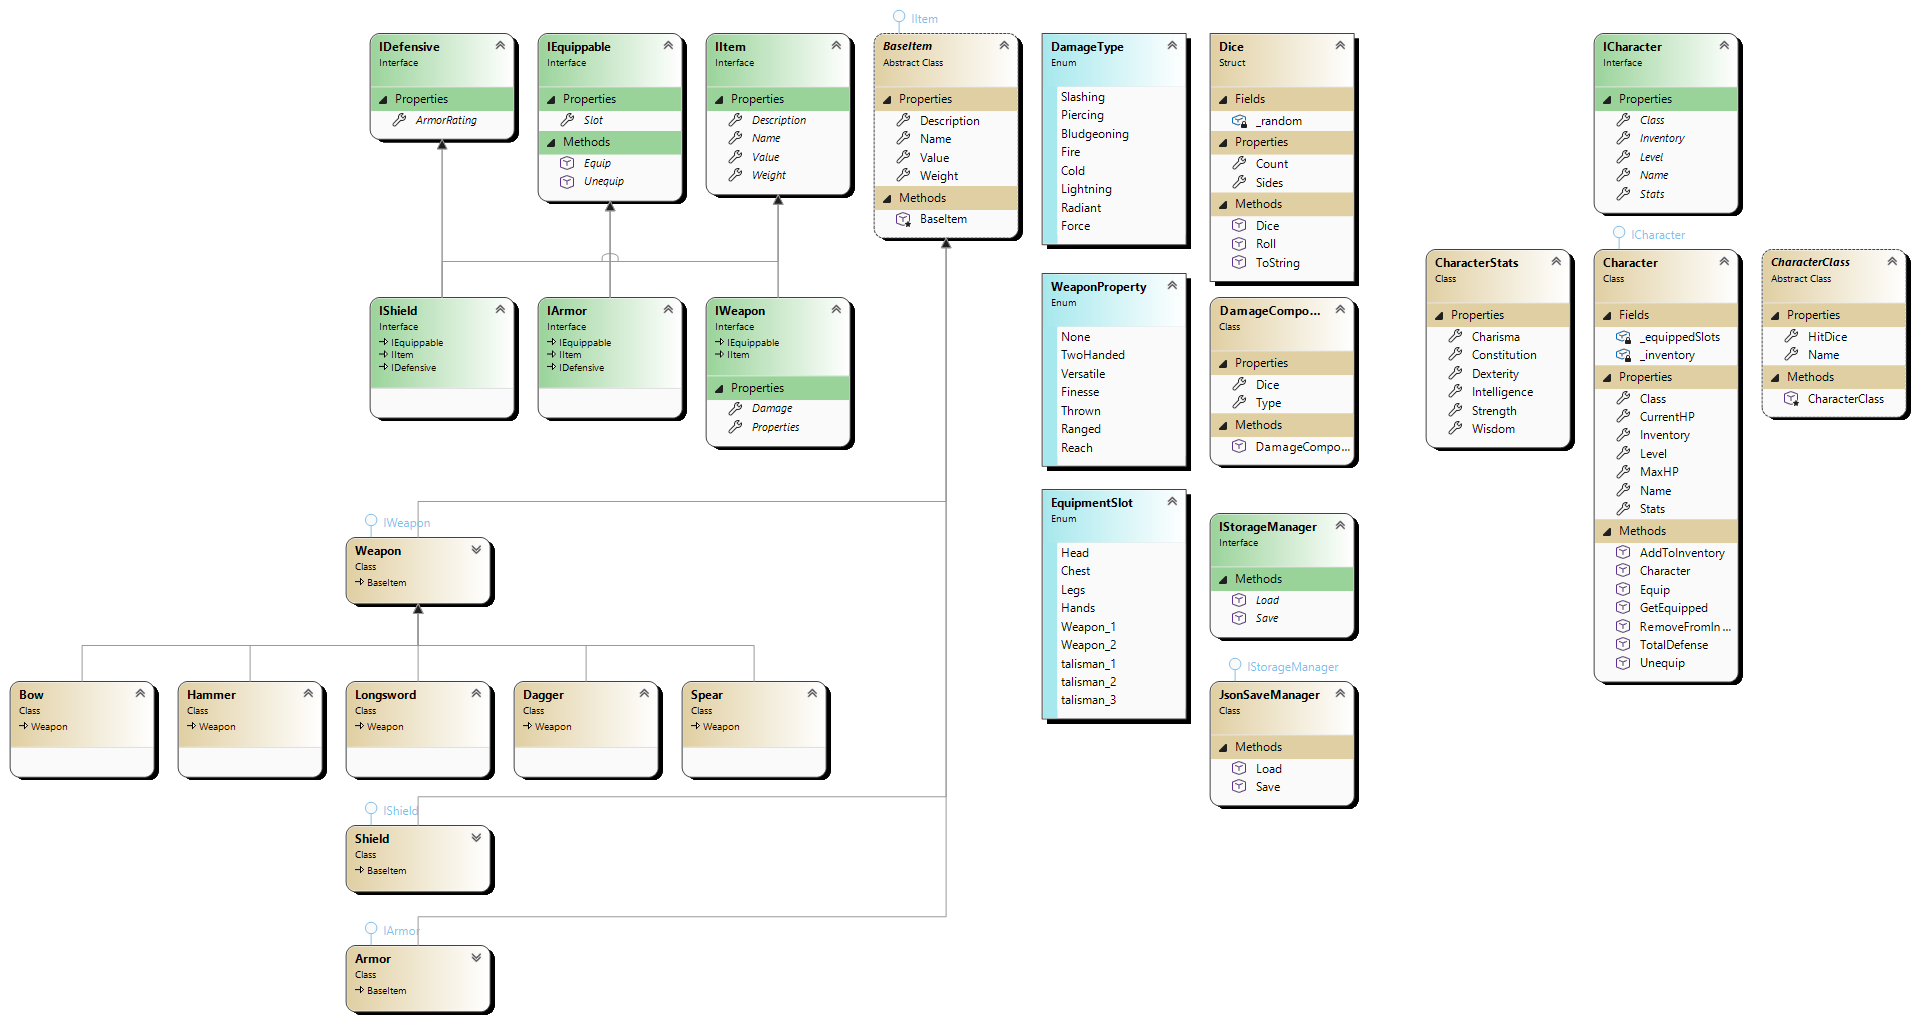
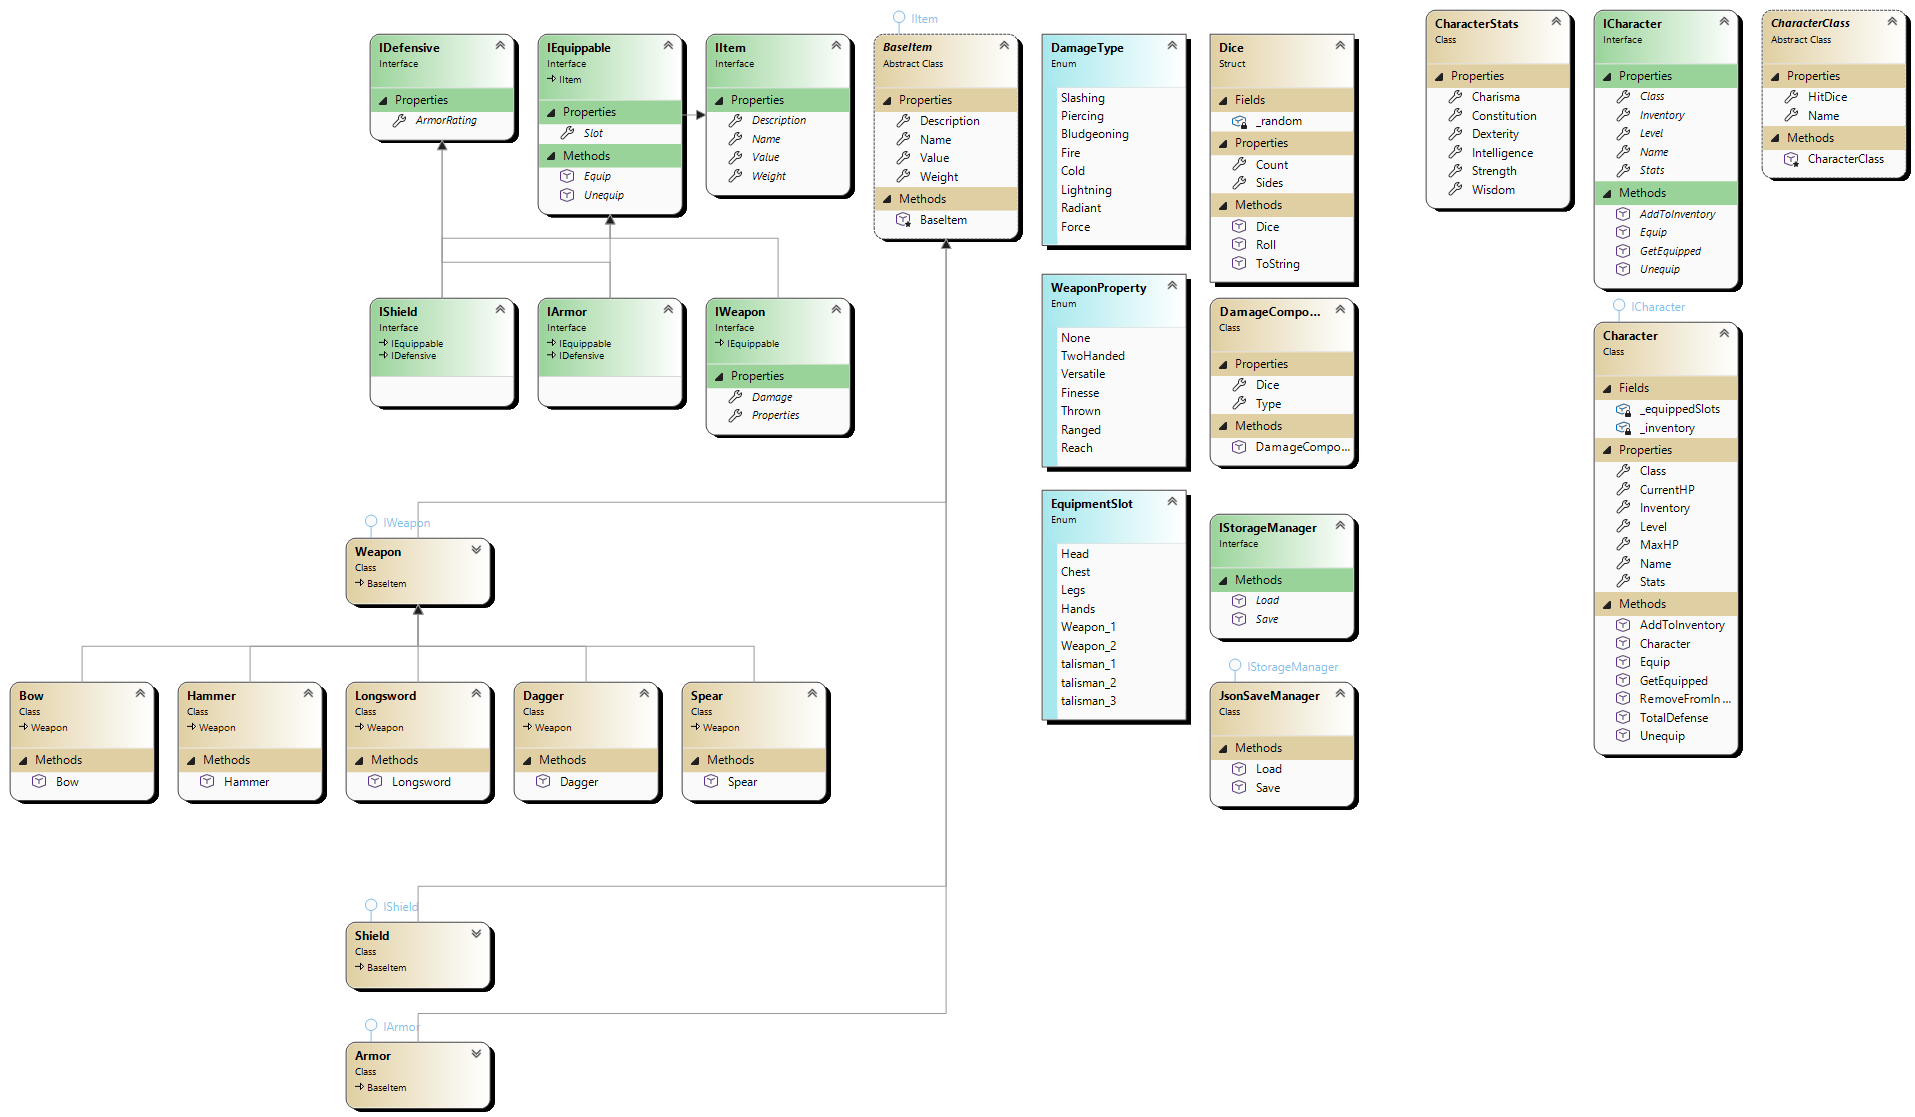
Different weapon classes. Equip/Unequip logic

diff --git a/rpg_char/Equipment/Weapons/Weapon.cs b/rpg_char/Equipment/Weapons/Weapon.cs
@@ -10,23 +10,30 @@ namespace rpg_char
         public List<DamageComponent> Damage { get; }
         public WeaponProperty Properties { get; }
         public EquipmentSlot Slot { get; }
+        public List<DamageComponent>? VersatileDamage { get; }
 
         public Weapon(string name, string description, float weight, int value,
-                    List<DamageComponent> damage, WeaponProperty properties, EquipmentSlot slot = EquipmentSlot.Weapon_1)
+                    List<DamageComponent> damage, WeaponProperty properties, EquipmentSlot slot = EquipmentSlot.Weapon_1, List<DamageComponent>? versatileDamage = null)
                     : base(name, description, weight, value)
         {
             Damage = damage;
             Properties = properties;
             Slot = slot;
+            VersatileDamage = versatileDamage;
         }
-
 
         public void Equip(ICharacter character) 
         {
+            IEquippable? current = character.GetEquipped(Slot);
+            if (current != null)
+                character.AddToInventory(current);
+
             if ((Properties & WeaponProperty.TwoHanded) != 0)
                 character.Unequip(EquipmentSlot.Weapon_2);
         }
-        public void Unequip(ICharacter character) { }
+        public void Unequip(ICharacter character){
+            character.AddToInventory(this);
+        }
 
         public int RollDamage() => Damage.Sum(d => d.Dice.Roll());
     }

diff --git a/rpg_char/Equipment/Weapons/Longsword.cs b/rpg_char/Equipment/Weapons/Longsword.cs
@@ -7,6 +7,15 @@ namespace rpg_char
 {
     public class Longsword : Weapon
     {
-        
+        public Longsword() : base(
+                name: "Longsword",
+                description: "A versatile straight blade, well balanced for both one and two handed use.",
+                weight: 3.5f,
+                value: 50,
+                damage: new List<DamageComponent> { new DamageComponent(new Dice(1, 8), DamageType.Slashing) },
+                properties: WeaponProperty.Versatile,
+                versatileDamage: new List<DamageComponent> { new DamageComponent(new Dice(1, 10), DamageType.Slashing) }
+            )
+        { }
     }
 }

diff --git a/rpg_char/Equipment/Weapons/Spear.cs b/rpg_char/Equipment/Weapons/Spear.cs
@@ -7,5 +7,15 @@ namespace rpg_char
 {
     public class Spear : Weapon
     {
+        public Spear() : base(
+            name: "Spear",
+            description: "A long reach weapon, can be thrown or used both one or two handed.",
+            weight: 3.0f,
+            value: 20,
+            damage: new List<DamageComponent> { new DamageComponent(new Dice(1, 6), DamageType.Piercing) },
+            properties: WeaponProperty.Thrown | WeaponProperty.Versatile | WeaponProperty.Reach,
+            versatileDamage: new List<DamageComponent> { new DamageComponent(new Dice(1, 8), DamageType.Piercing) }
+        )
+        { }
     }
 }

diff --git a/rpg_char/Equipment/Defence/Shield.cs b/rpg_char/Equipment/Defence/Shield.cs
@@ -16,7 +16,13 @@ namespace rpg_char
             ArmorRating = armorRating;
         }
 
-        public void Equip(ICharacter character) { }
-        public void Unequip(ICharacter character) { }
+        public void Equip(ICharacter character){
+            IEquippable? current = character.GetEquipped(Slot);
+            if (current != null)
+                character.AddToInventory(current);
+        }
+        public void Unequip(ICharacter character){ 
+            character.AddToInventory(this); 
+        }
     }
 }

diff --git a/rpg_char/Equipment/Weapons/Bow.cs b/rpg_char/Equipment/Weapons/Bow.cs
@@ -7,5 +7,15 @@ namespace rpg_char
 {
     public class Bow : Weapon
     {
+        public Bow() : base(
+            name: "Longbow",
+            description: "A tall bow requiring significant strength to draw.",
+            weight: 2.0f,
+            value: 35,
+            damage: new List<DamageComponent> { new DamageComponent(new Dice(1, 8), DamageType.Piercing) },
+            properties: WeaponProperty.TwoHanded | WeaponProperty.Ranged,
+            slot: EquipmentSlot.Weapon_1
+        )
+        { }
     }
 }

diff --git a/rpg_char/Equipment/Defence/Armor.cs b/rpg_char/Equipment/Defence/Armor.cs
@@ -18,7 +18,13 @@ namespace rpg_char
             Slot = slot;
         }
 
-        public void Equip(ICharacter character) { }
-        public void Unequip(ICharacter character) { }
+        public void Equip(ICharacter character){
+            IEquippable? current = character.GetEquipped(Slot);
+            if (current != null)
+                character.AddToInventory(current);
+        }
+        public void Unequip(ICharacter character){
+            character.AddToInventory(this);
+        }
     }
 }

diff --git a/rpg_char/Equipment/Weapons/Dagger.cs b/rpg_char/Equipment/Weapons/Dagger.cs
@@ -7,5 +7,14 @@ namespace rpg_char
 {
     public class Dagger : Weapon
     {
+        public Dagger() : base(
+            name: "Dagger",
+            description: "A small blade, easy to conceal and quick to draw.",
+            weight: 0.5f,
+            value: 10,
+            damage: new List<DamageComponent> { new DamageComponent(new Dice(1, 4), DamageType.Piercing) },
+            properties: WeaponProperty.Finesse | WeaponProperty.Thrown
+        )
+        { }
     }
 }

diff --git a/rpg_char/Equipment/Weapons/Hammer.cs b/rpg_char/Equipment/Weapons/Hammer.cs
@@ -7,5 +7,14 @@ namespace rpg_char
 {
     public class Hammer : Weapon
     {
+        public Hammer() : base(
+            name: "Warhammer",
+            description: "A heavy hammer, capable of crushing armor and bone.",
+            weight: 5.0f,
+            value: 40,
+            damage: new List<DamageComponent> { new DamageComponent(new Dice(1, 10), DamageType.Bludgeoning) },
+            properties: WeaponProperty.TwoHanded
+        )
+        { }
     }
 }

diff --git a/rpg_char/CharacterLogic/ICharacter.cs b/rpg_char/CharacterLogic/ICharacter.cs
@@ -12,5 +12,10 @@ namespace rpg_char
         int Level { get; }
         CharacterStats Stats { get; }
         IReadOnlyList<IItem> Inventory { get; }
+
+        IEquippable? GetEquipped(EquipmentSlot slot);
+        void Equip(IEquippable item);
+        void Unequip(EquipmentSlot slot);
+        void AddToInventory(IItem item);
     }
 }

diff --git a/rpg_char/Equipment/IEquipable.cs b/rpg_char/Equipment/IEquipable.cs
@@ -6,7 +6,7 @@ using System.Text;
 namespace rpg_char
 {
     // This interface has common methods of equipable gear and atributes like name, value and such.
-    public interface IEquippable
+    public interface IEquippable : IItem
     {
         void Equip(ICharacter character);
         void Unequip(ICharacter character);

diff --git a/rpg_char/Equipment/Weapons/IWeapon.cs b/rpg_char/Equipment/Weapons/IWeapon.cs
@@ -5,7 +5,7 @@ using System.Text;
 
 namespace rpg_char
 {
-    public interface IWeapon : IEquippable, IItem
+    public interface IWeapon : IEquippable
     {
         List<DamageComponent> Damage { get; }
         WeaponProperty Properties { get; }

diff --git a/rpg_char/CharacterLogic/Character.cs b/rpg_char/CharacterLogic/Character.cs
@@ -46,6 +46,7 @@ namespace rpg_char
 
         public void Equip(IEquippable item)
         {
+            _inventory.Remove(item);
             _equippedSlots[(int)item.Slot] = item;
             item.Equip(this);
         }
